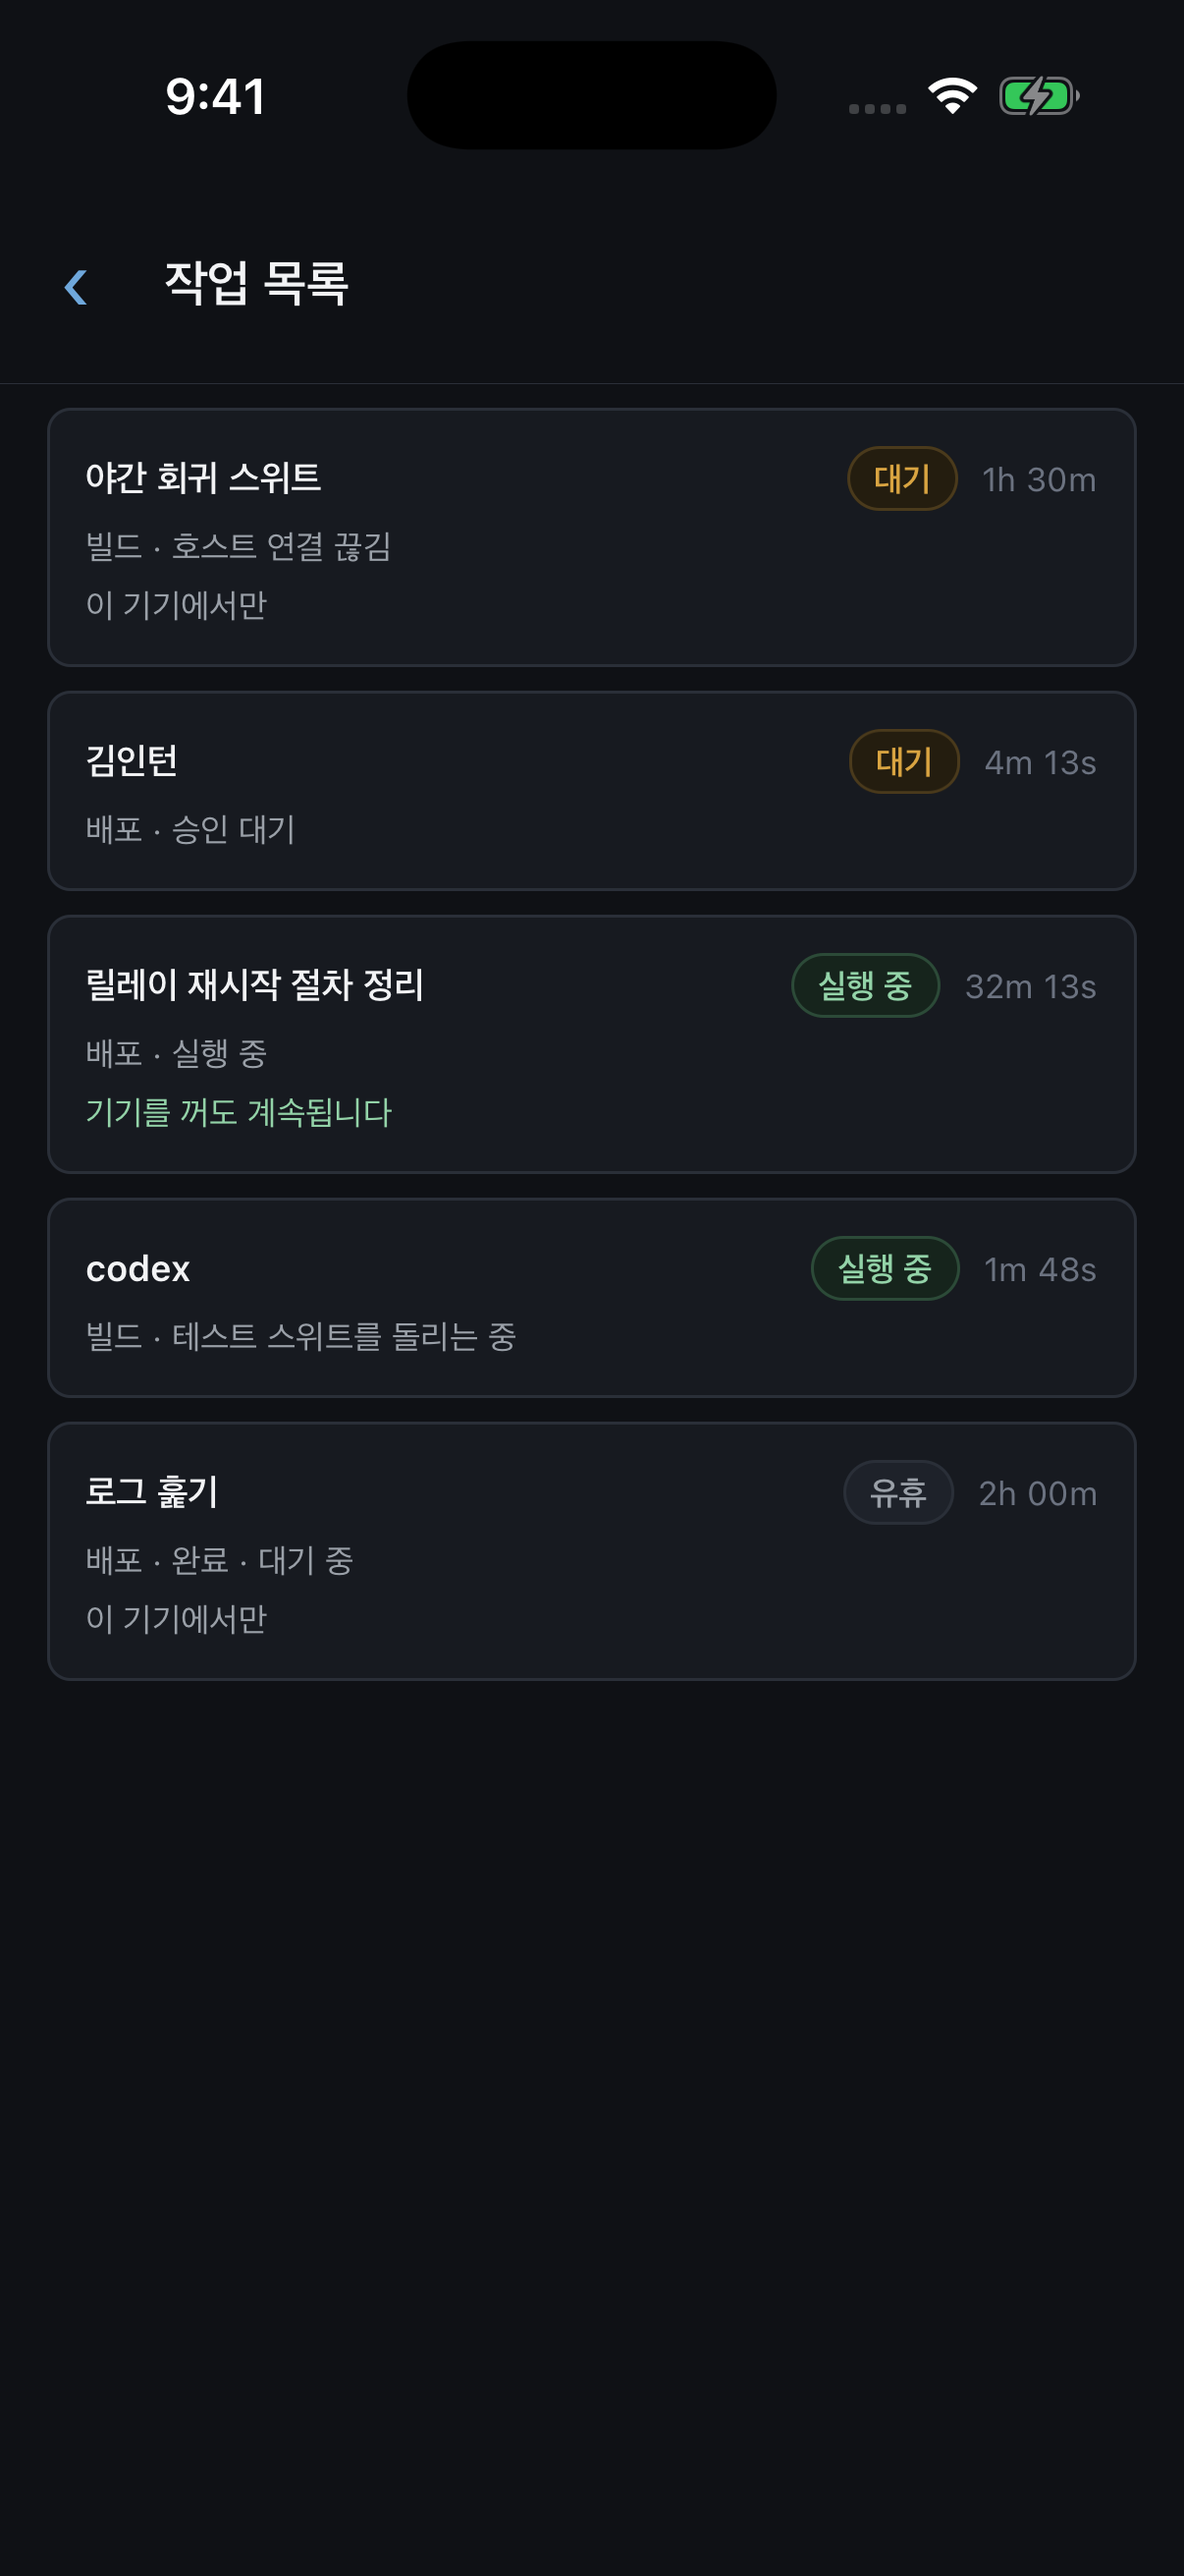
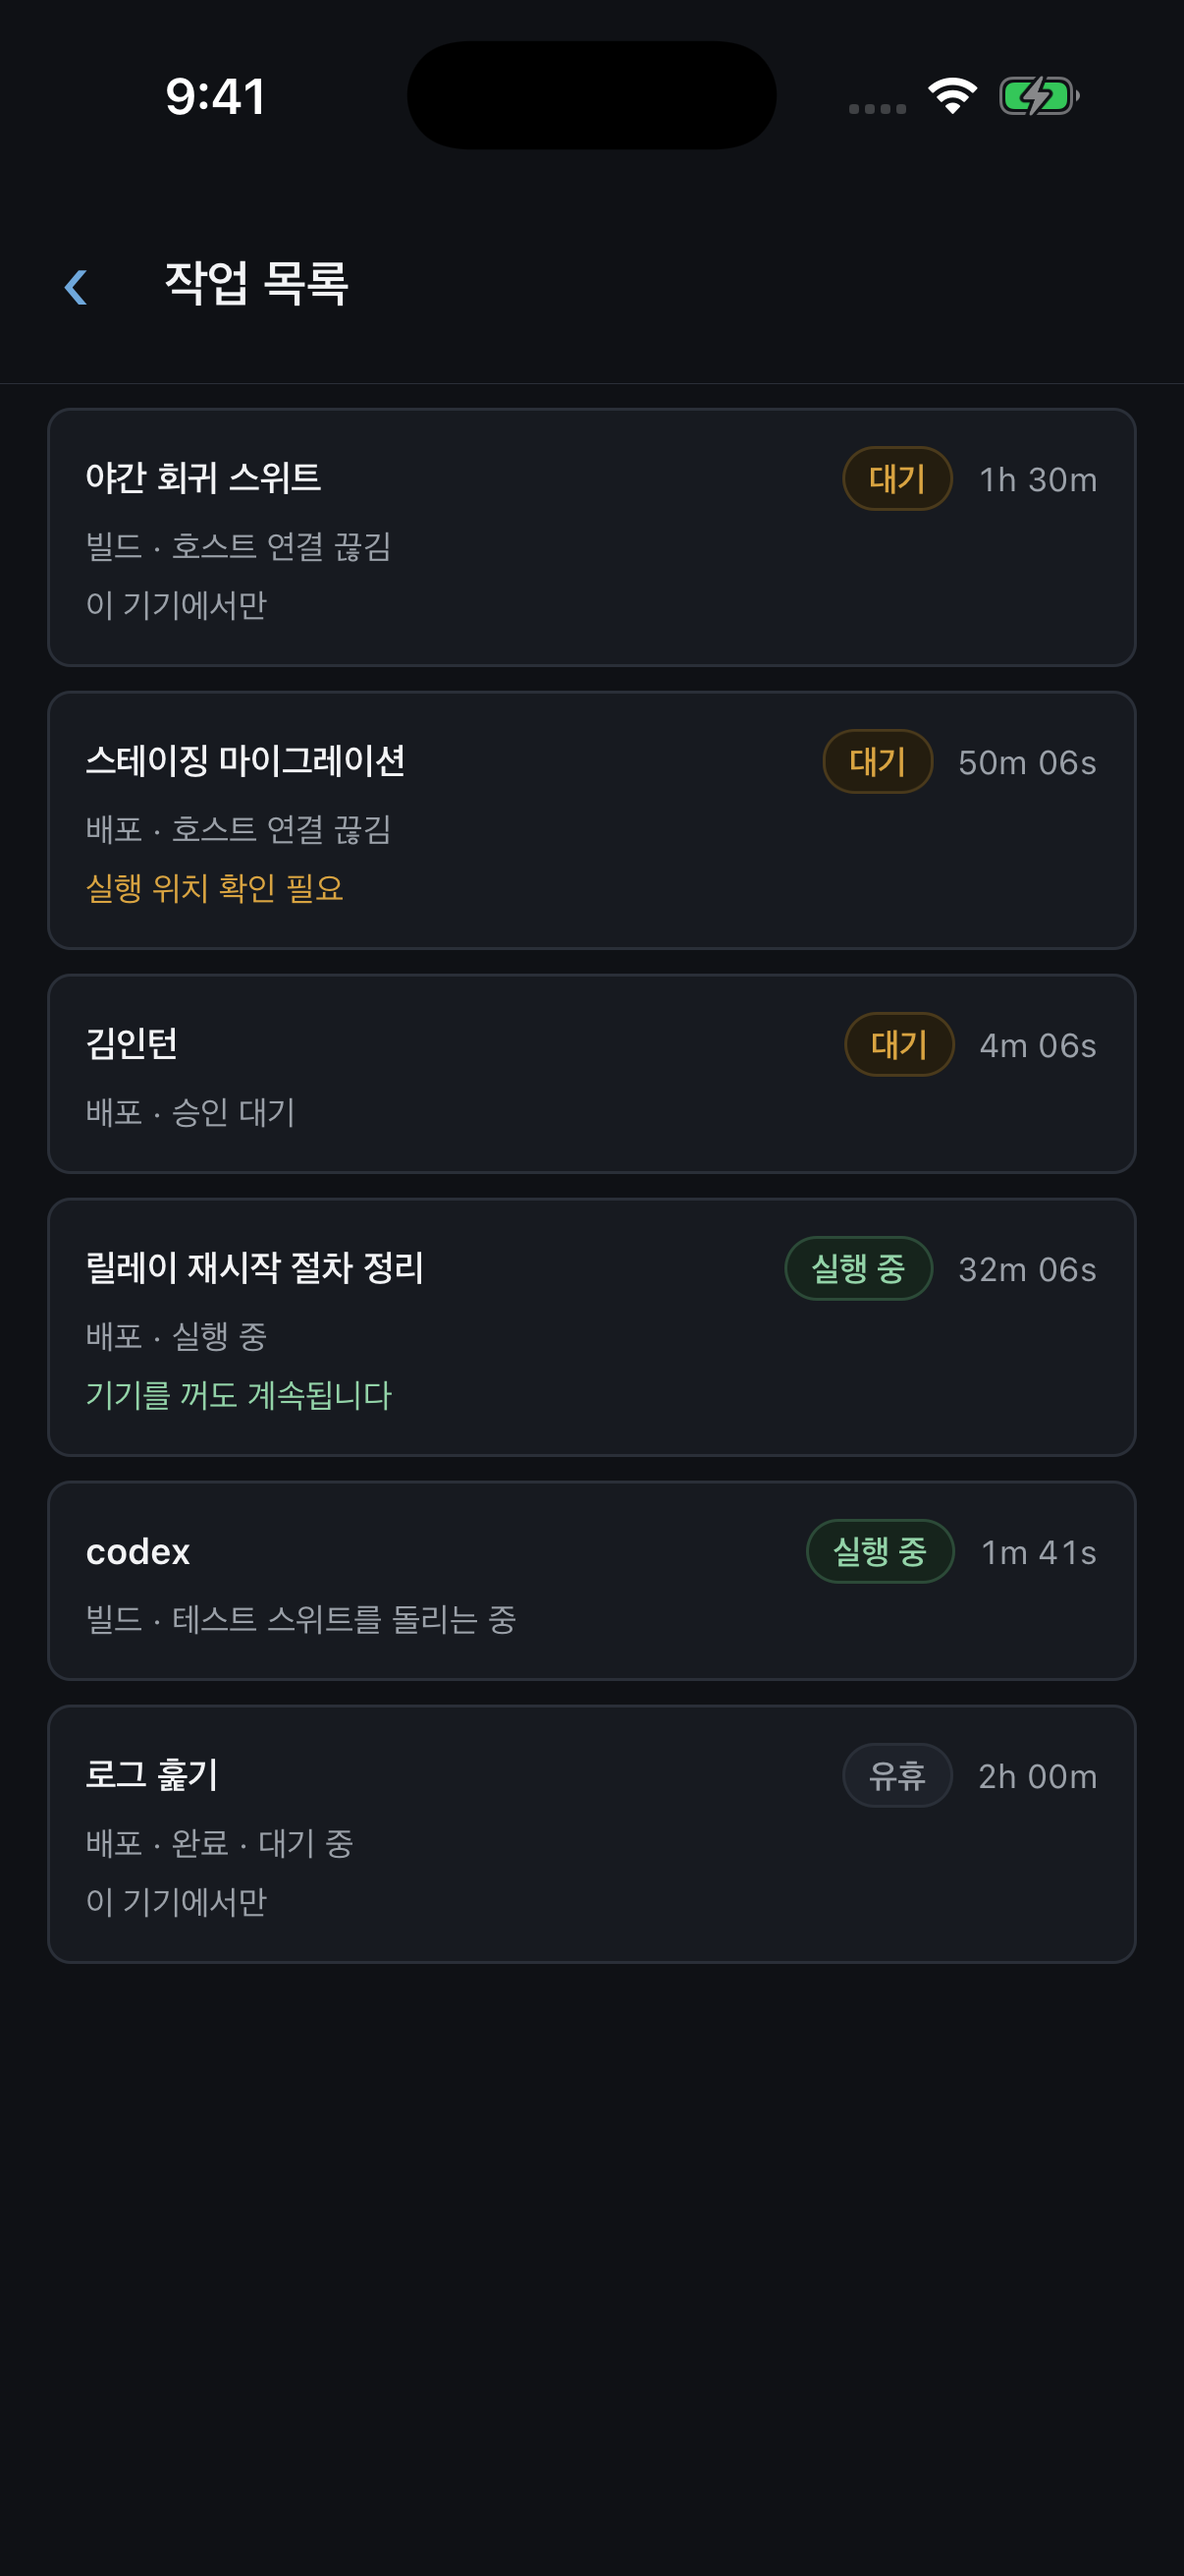
fix(ade): 폰 관제 수리 — 경과 잉크·자릿폭 고정·warn 생존성 씨앗 (리뷰 H-1·M-2·M-1)
design-review 소견 3건. 셋 다 폰 관제 목록(`AdeControlPanel`)과 그 캡처에 대한 것이다.

H-1  경과가 `textFaint` 였다. 그 값은 **카드 surface**(#171a20) 위에서 3.605:1 이라
     본문 AA 미달이고, 앱 배경 위의 3.909:1 보다 오히려 나쁘다(카드가 한 단 밝다).
     이 숫자는 장식이 아니라 목록의 정렬 근거이자 「너무 오래 붙들려 있다」의 재료다
     — U4-4 가 행의 시각에 대해 내린 그 판정을 그대로 적용해 `textMuted`(6.612:1).
     웹의 쌍둥이 칸도 이미 `text-ink-muted` 다(`AdeDrawer`).

M-2  같은 칸에 `fontVariant: ['tabular-nums']`. 1Hz 로 다시 그려지므로 비례폭이면
     자릿수가 바뀔 때마다 옆의 칩과 제목이 매 초 흔들린다. `MessageRow.dividerFigure`
     가 같은 이유로 숫자 조각만 감쌌는데, `elapsedLabel` 의 문자열에는 한글이 없어
     (`42s`/`12m 03s`/`1h 04m`) 노드 하나에 그대로 걸 수 있다.

M-1  하네스 씨앗에 **등록기에 없는 호스트**의 세션을 하나 추가했다. 픽스처 주석은
     「세 생존성 등급」을 약속했지만 씨앗은 두 개만 만들었고(`app`·`cloud` 둘 다
     등록기에 있어 `unknown` 이 나올 길이 없었다), 그래서 셋 중 유일하게 경고인
     등급이 캡처에 한 번도 서지 못했다. `orphaned` 로 둔 것은 호스트가 사라진 것과
     세션이 고아가 된 것이 같은 사건의 두 얼굴이기 때문이고, 덕분에 이 카드가
     **대기 칩(앰버)과 warn 배지(앰버)가 겹치는** 유일한 장이 된다.

캡처는 같은 커밋에서 갱신한다(design-review E-1). `ade3-panel.png` 은 물론
`ade3-summary.png` 도 함께 — 두 표면이 `seedAdeControl()` 을 공유하므로 씨앗이 하나
늘면 요약 문장이 「대기 2」에서 「대기 3」으로 바뀐다. `ade3-summary-empty.png` 은
그 씨앗을 건너뛰는 유일한 장이라 그대로다.

  기기      iPhone 17 Pro (1206x2622, 3x) · pt = px/3
  Metro     X-React-Native-Project-Root 로 이 체크아웃임을 확인하고 찍었다
  픽셀 실측 경과 잉크가 사진에서 #6b7280 -> #9aa0a8 로 바뀐 것을 확인

단정 둘을 함께 세웠고, 둘 다 red proof 를 지난다(되돌리면 깨진다):
경과 잉크·자릿폭 고정 하나, 등록기에 없는 호스트가 warn 톤으로 서는 것 하나.

폰 스위트 897/897 (57 suites) · typecheck 0 · lint 0 errors.
[…]

diff --git a/clients/mobile/__tests__/adeControlSurface.test.tsx b/clients/mobile/__tests__/adeControlSurface.test.tsx
@@ -19,6 +19,7 @@ import React from 'react';
 import '../src/boot/polyfills';
 import '../src/boot/coreHost';
 
+import {color} from '../src/design/tokens';
 import {resetAgentWorking} from '../src/features/agents/workingSignal';
 import AppShell from '../src/shell/AppShell';
 import {__resetSessionStore, sessionPort} from '../src/storage/secureSession';
@@ -638,6 +639,72 @@ describe('관제 목록 — 무엇이, 어디서, 살아남는지', () => {
         `ade-card-durability-run|${RUN_KIM.toLowerCase()}|${GENERAL.toLowerCase()}`,
       ),
     ).toBeNull();
+  });
+
+  it('등록기에 없는 호스트의 세션은 「실행 위치 확인 필요」를 경고 톤으로 세운다', async () => {
+    // 호스트 등록기는 워크스페이스가 **지금 아는** 기계의 목록이고 세션 원장은
+    // 있었던 일의 기록이라, 기계가 등록에서 빠진 뒤에도 그 기계의 세션 행은 남는다.
+    // 그 카드에 대해 화면이 할 수 있는 정직한 말은 「모른다」 하나뿐이고, 그것은
+    // 침묵이 아니라 **경고**여야 한다 — 사람이 랩탑을 덮을지 정하는 자리다.
+    installFetch({
+      workSessions: () =>
+        jsonResponse(200, {
+          workSessions: [
+            ...WORK_SESSIONS,
+            {
+              ...WORK_SESSIONS[1],
+              id: 'SESSION-HOST-GONE',
+              hostId: 'HOST-RETIRED',
+              label: '스테이징 마이그레이션',
+            },
+          ],
+        }),
+    });
+    await openConversation();
+    await openBothTurns();
+    await waitFor(() => expect(screen.getByTestId('ade-summary')).toBeTruthy());
+    fireEvent.press(screen.getByTestId('ade-summary'));
+    await waitFor(() => expect(screen.getByTestId('ade-card-list')).toBeTruthy());
+
+    await waitFor(() =>
+      expect(
+        screen.getByTestId('ade-card-durability-session|session-host-gone'),
+      ).toBeTruthy(),
+    );
+    const badge = screen.getByTestId(
+      'ade-card-durability-session|session-host-gone',
+    );
+    expect(badge).toHaveTextContent(new RegExp(durabilityBadge('unknown')));
+    // 「모른다」는 안심시키는 두 문장과 **다른 색**으로 선다. 셋이 같은 잉크면 이
+    // 줄은 세 등급 모두에 대해 같은 무게로 읽히고, 그러면 경고가 경고가 아니다.
+    expect(flatStyle(badge.props.style).color).toBe(color.warn);
+    expect(
+      flatStyle(
+        screen.getByTestId('ade-card-durability-session|session-orphaned').props
+          .style,
+      ).color,
+    ).not.toBe(color.warn);
+  });
+
+  it('경과는 3등 잉크에 두지 않고, 매 초 자리를 옮기지 않는다', async () => {
+    installFetch();
+    await openConversation();
+    await openBothTurns();
+    await waitFor(() => expect(screen.getByTestId('ade-summary')).toBeTruthy());
+    fireEvent.press(screen.getByTestId('ade-summary'));
+    await waitFor(() => expect(screen.getByTestId('ade-card-list')).toBeTruthy());
+
+    const elapsed = flatStyle(
+      screen.getByTestId('ade-card-elapsed-session|session-running').props.style,
+    );
+    // 이 숫자는 목록의 정렬 근거이자 사람이 「너무 오래 붙들려 있다」를 정하는
+    // 재료다 — 장식이 아니므로 3등 잉크에 두지 않는다. `textFaint` 는 카드
+    // surface(#171a20) 위에서 3.605:1 로 본문 AA 미달이기도 하다 (design-review H-1).
+    expect(elapsed.color).toBe(color.textMuted);
+    expect(elapsed.color).not.toBe(color.textFaint);
+    // 1Hz 로 다시 그려지는 숫자다. 비례폭이면 `9s`->`10s` 처럼 자릿수가 바뀔 때마다
+    // 옆의 칩과 제목이 매 초 흔들린다 (design-review M-2).
+    expect(elapsed.fontVariant).toEqual(['tabular-nums']);
   });
 
   it('카드를 누르면 그 카드의 방이 열리고, 목록은 물러난다', async () => {

diff --git a/clients/mobile/measure/surfaces.tsx b/clients/mobile/measure/surfaces.tsx
@@ -243,13 +243,21 @@ function search(phase: SearchPhase, hits: MessageSearchHit[] = []): MessageSearc
 // 배송되는 경로로 읽은 값이다 — `composer-offline` 이 `saveDraft` 로 초안을 심는
 // 것과 같은 방법이다.
 //
-// 픽스처가 고른 다섯 장은 세 상태와 세 생존성 등급을 한 장에 세우기 위한 것이다:
+// 픽스처가 고른 여섯 장은 세 상태와 세 생존성 등급을 한 장에 세우기 위한 것이다:
 //
 //   대기   `orphaned` 세션 · 랩탑 위 호스트   -> 「이 기기에서만」
+//   대기   `orphaned` 세션 · **없는 호스트**  -> 「실행 위치 확인 필요」 (warn)
 //   실행   `running`  세션 · 클라우드 호스트  -> 「기기를 꺼도 계속됩니다」
 //   유휴   `idle`     세션                    -> 목록에는 있고 계수에는 없다
 //   대기   승인을 기다리는 턴                 -> 호스트가 없으므로 배지도 없다
 //   실행   흐르고 있는 턴                     -> 같음
+//
+// 둘째 줄은 이 판이 처음 랜딩할 때 **빠져 있었다** — 위 문장은 세 등급을 약속하는데
+// 씨앗은 두 개만 만들었다(`app`·`cloud` 둘 다 등록기에 있으므로 `unknown` 이 나올
+// 길이 없었다). 그래서 셋 중 **유일하게 경고인** 등급이 사진에 한 번도 서지 못했고,
+// 리뷰어는 저장소만 읽어서 그 문장이 읽히는지 판별할 수 없었다(design-review M-1).
+// 「경고가 읽히는가」는 안심시키는 배지 옆에서만 사진으로 확인된다 — 이 파일이 잠긴
+// 픽커·꺼진 승인에 대해 이미 적어 둔 그 규율이다.
 // =============================================================================
 
 /** 하네스 세션의 워크스페이스. 아래 캐시 키가 전부 이 값을 쓴다. */
@@ -332,6 +340,32 @@ const ADE_SESSIONS = [
     label: '야간 회귀 스위트',
     status: 'orphaned',
     startedAtMs: NOW - 5_400_000,
+  }),
+  /**
+   * 등록기에 **없는** 호스트를 가리키는 세션 — 「실행 위치 확인 필요」의 유일한
+   * 씨앗이다(`sessionDurability` 는 호스트를 못 찾으면 `unknown` 을 답한다).
+   *
+   * 지어낸 상황이 아니다. 호스트 등록기는 워크스페이스가 지금 아는 기계의 목록이고
+   * 세션 원장은 **있었던 일**의 기록이라, 기계가 등록에서 빠진 뒤에도 그 기계에서
+   * 돌던 세션 행은 남는다. 그 카드에 대해 화면이 할 수 있는 정직한 말은 「지속된다」
+   * 도 「이 기기에서만」 도 아니고 「모른다」 하나뿐이다.
+   *
+   * `orphaned` 를 고른 것도 그래서다: 호스트가 사라진 것과 세션이 고아가 된 것은
+   * 같은 사건의 두 얼굴이라 이 조합이 가장 흔하다. 그리고 그 덕에 이 카드는 사진
+   * 에서 **대기 칩(앰버)과 warn 배지(앰버)가 한 카드 안에 겹치는** 유일한 장이
+   * 된다 — 리뷰가 눈으로 확인하라고 한 그 겹침이다.
+   *
+   * 시작 시각은 `s-orphaned`(5,400초)와 `run-approval`(240초) 사이에 둔다. 정렬이
+   * 대기 -> 오래된 것 먼저이므로 이 카드는 **둘째 장**에 서고, 바로 위의 muted 배지
+   * 와 나란히 찍힌다 — 경고가 안심시키는 말 옆에 있어야 확인된다는 그 규율이다.
+   */
+  adeSession({
+    id: 's-host-gone',
+    hostId: 'host-retired',
+    tool: 'claude',
+    label: '스테이징 마이그레이션',
+    status: 'orphaned',
+    startedAtMs: NOW - 3_000_000,
   }),
   adeSession({
     id: 's-running',

diff --git a/clients/mobile/src/features/ade/AdeControlPanel.tsx b/clients/mobile/src/features/ade/AdeControlPanel.tsx
@@ -376,10 +376,32 @@ const styles = StyleSheet.create({
     borderWidth: 1,
   },
   chipText: {fontSize: font.meta, lineHeight: line.meta, fontWeight: '600'},
+  /**
+   * 경과는 **뜻을 나르는 글자**다 — 이 목록의 정렬 근거이고(같은 분류 안에서 오래된
+   * 것 먼저), 사람이 「이건 너무 오래 붙들려 있다」를 정하는 재료다. 장식이 아니므로
+   * 3등 잉크에 두지 않는다. U4-4 가 행의 시각에 대해 내린 그 판정이고
+   * (`MessageRow.dividerLabel` 이 같은 이유로 이미 `textMuted` 다), 웹의 쌍둥이 칸도
+   * `text-ink-muted` 로 선다(`AdeDrawer`).
+   *
+   * 대비도 그 판정을 지지한다 — `textFaint`(#6b7280)는 **카드 surface**(#171a20)
+   * 위에서 3.605:1 이라 본문 AA(4.5:1) 미달이고, 앱 배경 위의 3.909:1 보다 오히려
+   * 나쁘다(카드가 한 단 밝은 만큼). `textMuted` 는 같은 자리에서 6.612:1 이다.
+   */
   cardElapsed: {
     fontSize: font.meta,
     lineHeight: line.meta,
-    color: color.textFaint,
+    color: color.textMuted,
+    /**
+     * 1Hz 로 다시 그려지는 숫자다. 비례폭이면 `9s`->`10s`, `59s`->`1m 00s` 처럼
+     * 자릿수가 바뀔 때마다 칩과 제목이 매 초 1~2px 씩 흔들린다 — 정지한 목록에서
+     * 그 떨림은 무언가 바뀌었다는 신호로 읽힌다.
+     *
+     * `MessageRow.dividerFigure` 는 같은 이유로 있으면서 **숫자 조각만** 감쌌다
+     * (조사·단위가 자릿폭을 함께 받으면 한글 음절 사이가 벌어져서다). 여기서는
+     * 노드 하나에 그대로 건다: `elapsedLabel` 이 만드는 문자열은 `42s`/`12m 03s`/
+     * `1h 04m` 이라 한글이 한 글자도 없다.
+     */
+    fontVariant: ['tabular-nums'],
   },
   cardMeta: {fontSize: font.meta, lineHeight: line.meta, color: color.textMuted},
 });
